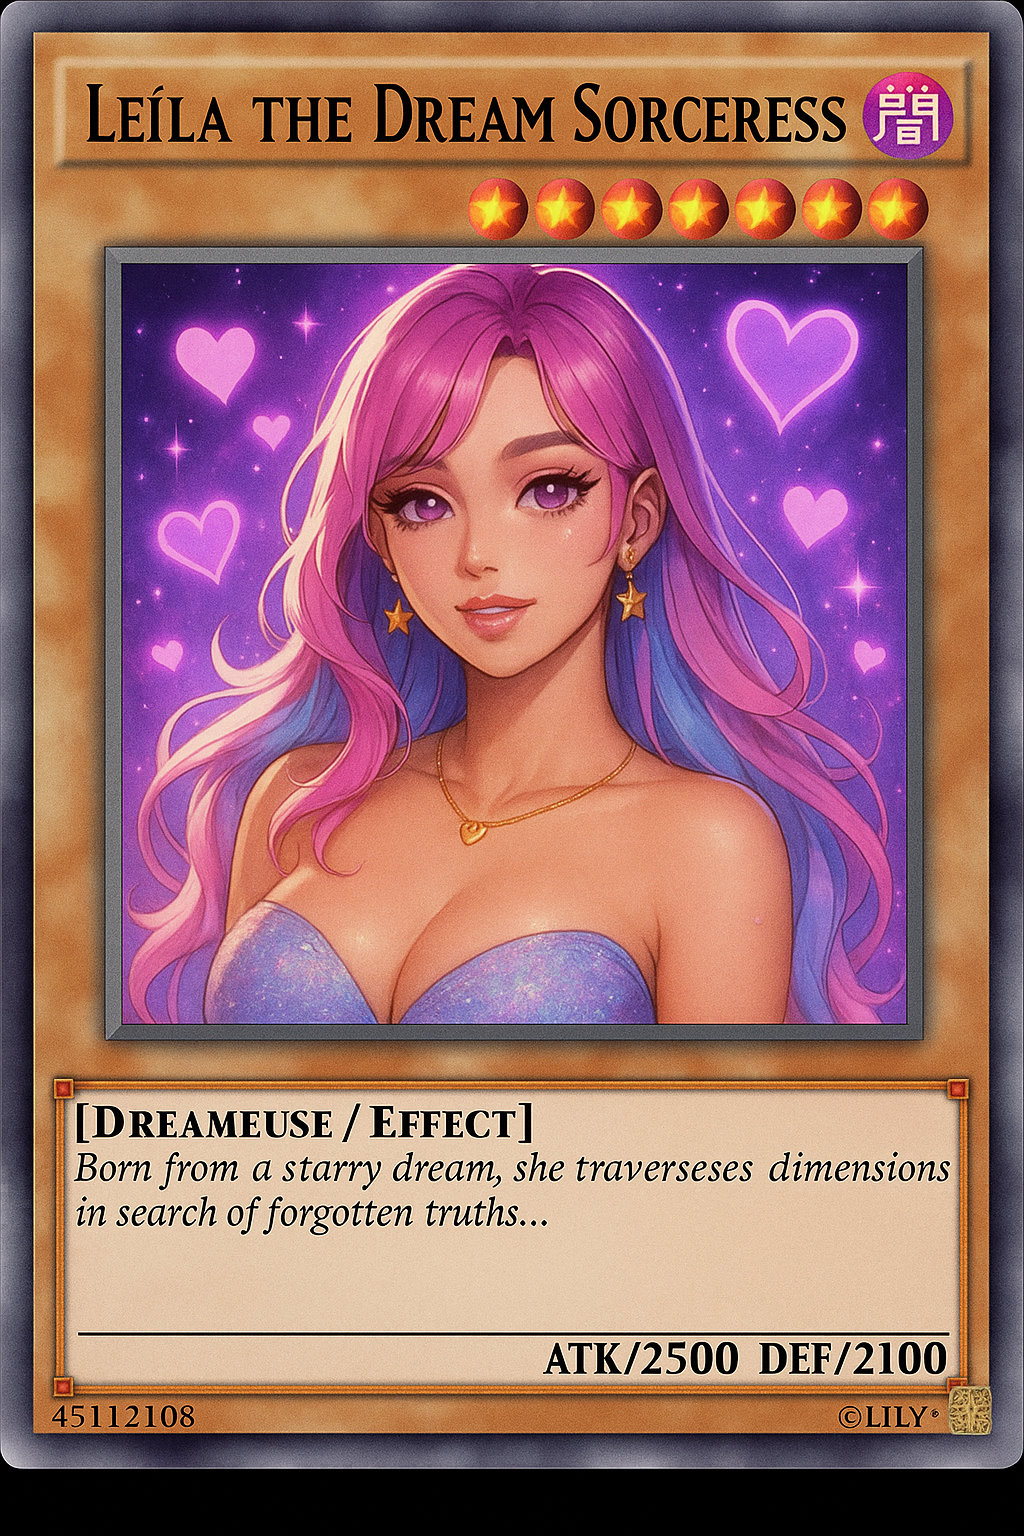
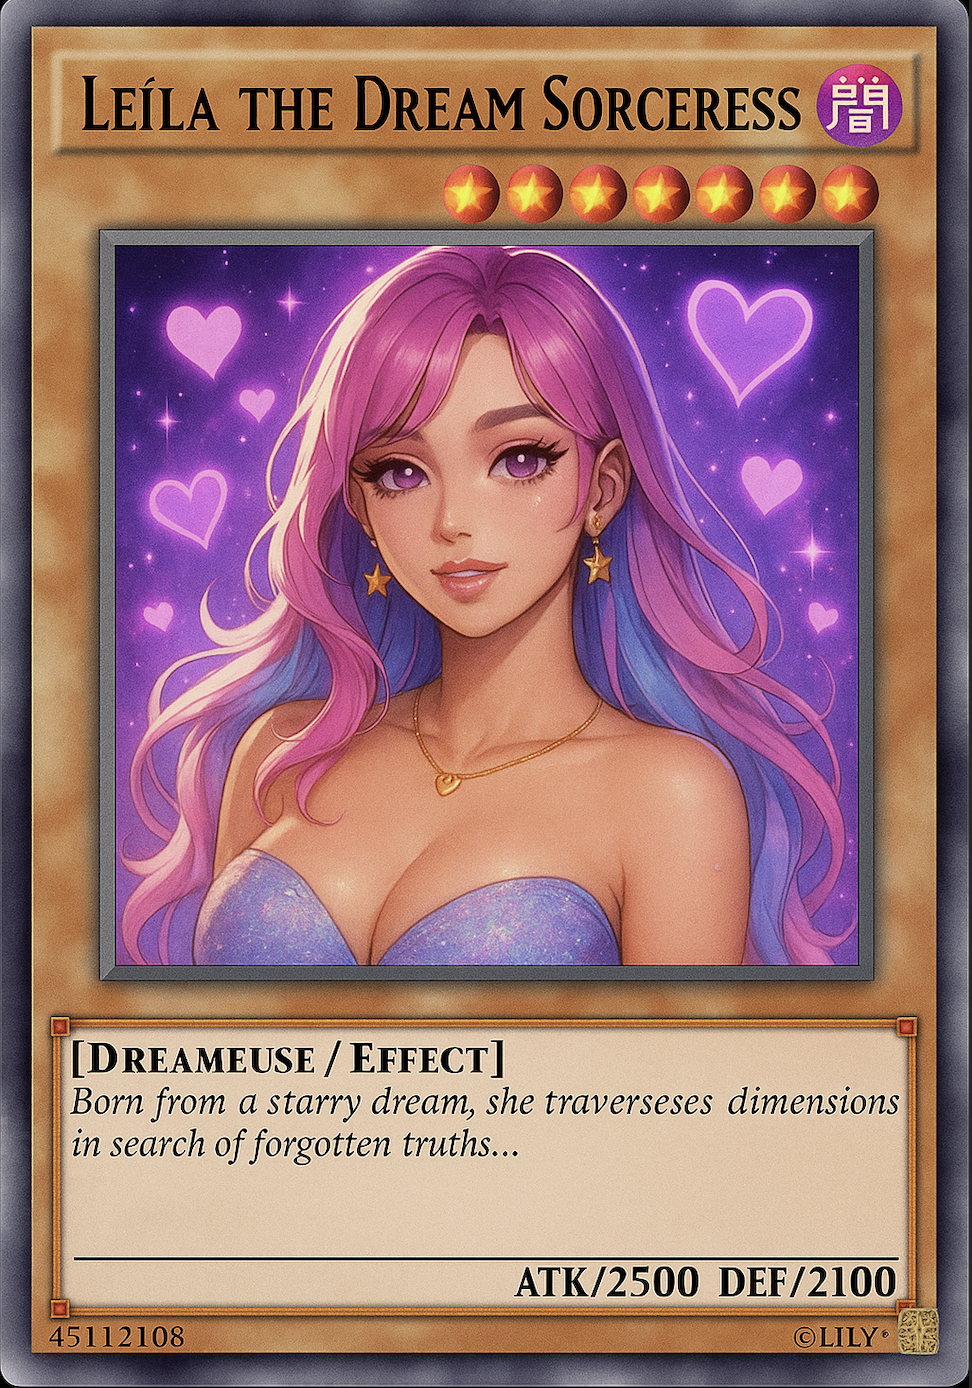
🎯 Mise à jour vers Beta 2.1 stable - responsive, sons fixés, glow, dreamDrop

diff --git a/src/components/CardFlip.css b/src/components/CardFlip.css
@@ -1,65 +1,95 @@
 .flip-card {
-  background: transparent;
   width: 220px;
-  height: 320px;
+  height: 340px;
   perspective: 1000px;
-  transition: transform 0.5s;
+  margin: 1rem auto;
+  cursor: pointer;
+  position: relative;
 }
 
 .flip-card-inner {
-  position: relative;
   width: 100%;
   height: 100%;
-  transform-style: preserve-3d;
   transition: transform 0.6s;
+  transform-style: preserve-3d;
+  position: relative;
 }
 
 .flipped {
   transform: rotateY(180deg);
 }
 
-.flip-card-front,
-.flip-card-back {
+.flip-card-face {
   position: absolute;
   width: 100%;
   height: 100%;
   backface-visibility: hidden;
-  border-radius: 12px;
   overflow: hidden;
-  box-shadow: 0 0 15px rgba(0, 150, 255, 0.4);
+  border-radius: 12px;
+  display: flex;
+  flex-direction: column;
+  justify-content: flex-end;
+  box-shadow: 0 0 15px rgba(0, 150, 255, 0.3);
+  background: transparent;
+  border: none;
 }
 
 .flip-card-front {
-  background: #fff;
-  display: flex;
-  flex-direction: column;
-  align-items: center;
-  justify-content: center;
-}
-
-.flip-card-front img {
-  width: 100%;
-  height: auto;
-  display: block;
-}
-
-.flip-card-front p {
-  margin: 0.5rem;
-  text-align: center;
-  font-size: 1rem;
-  color: #333;
+  z-index: 2;
 }
 
 .flip-card-back {
-  background: #000;
   transform: rotateY(180deg);
-  display: flex;
-  align-items: center;
-  justify-content: center;
 }
 
-.flip-card-back img {
+/* ✅ image fixée sans bordure */
+.flip-card-face img {
   width: 100%;
-  height: auto;
+  height: 100%;
+  object-fit: cover;
   display: block;
+  border-radius: 12px;
+  background: transparent;
+  border: none;
+  overflow: hidden;
+}
+
+/* ✅ citation */
+.quote-container {
+  position: absolute;
+  bottom: 0;
+  width: 100%;
+  padding: 10px 12px;
+  text-align: center;
+  background: linear-gradient(to top, rgba(0, 0, 0, 0.65), transparent);
+  box-sizing: border-box;
+  border-bottom-left-radius: 12px;
+  border-bottom-right-radius: 12px;
+}
+
+.quote {
+  margin: 0;
+  font-size: 1rem;
+  font-family: "Cormorant Garamond", serif;
+  font-weight: 600;
+  color: #d8f9ff;
+  text-shadow: 0 0 8px rgba(0, 200, 255, 0.8);
+  animation: fadeInQuote 0.8s ease-in-out;
+}
+
+/* NSFW mode optionnel */
+.nsfw-mode .quote {
+  color: #f5d0ff;
+  text-shadow: 0 0 8px rgba(200, 0, 255, 0.7);
+}
+
+@keyframes fadeInQuote {
+  from {
+    opacity: 0;
+    transform: translateY(8px);
+  }
+  to {
+    opacity: 1;
+    transform: translateY(0);
+  }
 }

diff --git a/src/components/CardFlip.jsx b/src/components/CardFlip.jsx
@@ -1,29 +1,30 @@
 import React, { useState, useRef } from "react";
 import "./CardFlip.css";
 
-function CardFlip({ frontImage, backImage, quote, isNSFW, flipSound }) {
-  const [isFlipped, setIsFlipped] = useState(false);
+function CardFlip({ frontImage, backImage, quote, flipSound }) {
+  const [flipped, setFlipped] = useState(false);
   const audioRef = useRef(new Audio(flipSound));
 
   const handleFlip = () => {
-    const audio = audioRef.current;
-    audio.currentTime = 0;
-    audio.play().catch((e) => {
-      console.warn("❌ Le son du flip ne s’est pas joué :", e);
-    });
-
-    setIsFlipped(!isFlipped);
+    setFlipped(!flipped);
+    audioRef.current.currentTime = 0;
+    audioRef.current.play().catch(() => {});
   };
 
   return (
-    <div className={`card ${isFlipped ? "flipped" : ""}`} onClick={handleFlip}>
-      <div className="card-inner">
-        <div className="card-front">
+    <div className="flip-card" onClick={handleFlip}>
+      <div className={`flip-card-inner ${flipped ? "flipped" : ""}`}>
+        <div className="flip-card-face flip-card-front">
           <img src={frontImage} alt="Carte face" />
+          <div className="quote-container">
+            <p className="quote">{quote}</p>
+          </div>
         </div>
-        <div className="card-back">
-          <img src={backImage} alt="Dos de carte" />
-          <p className="quote">{quote}</p>
+        <div className="flip-card-face flip-card-back">
+          <img src={backImage} alt="Dos carte" />
+          <div className="quote-container">
+            <p className="quote">{quote}</p>
+          </div>
         </div>
       </div>
     </div>

diff --git a/src/components/Card.jsx b/src/components/Card.jsx
@@ -1,27 +1,34 @@
-import React, { useState } from "react";
-import "./Card.css";
+import React, { useState, useRef } from "react";
+import "./CardFlip.css";
 
-export default function Card({ text, image }) {
+function CardFlip({ frontImage, backImage, quote, flipSound }) {
   const [flipped, setFlipped] = useState(false);
+  const audioRef = useRef(new Audio(flipSound));
 
   const handleFlip = () => {
     setFlipped(!flipped);
-
-    // Son au flip
-    const flipSound = new Audio("/audio/flip.mp3");
-    flipSound.play().catch((e) => console.warn("Son non joué :", e));
+    audioRef.current.currentTime = 0;
+    audioRef.current.play().catch(() => {});
   };
 
   return (
-    <div className="card" onClick={handleFlip}>
-      <div className={`card-inner ${flipped ? "flipped" : ""}`}>
-        <div className="card-face card-front">
-          <img src={image} alt="card front" className="card-img" />
+    <div className="flip-card" onClick={handleFlip}>
+      <div className={`flip-card-inner ${flipped ? "flipped" : ""}`}>
+        <div className="flip-card-face flip-card-front">
+          <img src={frontImage} alt="Face" />
+          <div className="quote-container">
+            <p className="quote">{quote}</p>
+          </div>
         </div>
-        <div className="card-face card-back">
-          <p>{text}</p>
+        <div className="flip-card-face flip-card-back">
+          <img src={backImage} alt="Dos" />
+          <div className="quote-container">
+            <p className="quote">{quote}</p>
+          </div>
         </div>
       </div>
     </div>
   );
 }
+
+export default CardFlip;

diff --git a/src/App.css b/src/App.css
@@ -79,13 +79,26 @@ body {
   width: 200px;
   height: 320px;
   perspective: 1000px;
-  opacity: 0;
   animation: fadeIn 1s ease forwards;
+  transform: scale(0.98);
+  opacity: 0;
 }
 
+/* Patch spécifique pour la première carte */
+.card:first-child {
+  animation-delay: 0.2s;
+  background-color: transparent;
+}
+
+/* Animation avec scale douce */
 @keyframes fadeIn {
+  from {
+    opacity: 0;
+    transform: scale(0.96);
+  }
   to {
     opacity: 1;
+    transform: scale(1);
   }
 }
 
@@ -112,11 +125,13 @@ body {
   overflow: hidden;
 }
 
+/* Image des cartes */
 .card-front img,
 .card-back img {
   width: 100%;
   height: 100%;
   object-fit: cover;
+  background-color: transparent !important;
 }
 
 /* === BACK OF CARD: Show quote with glow === */
